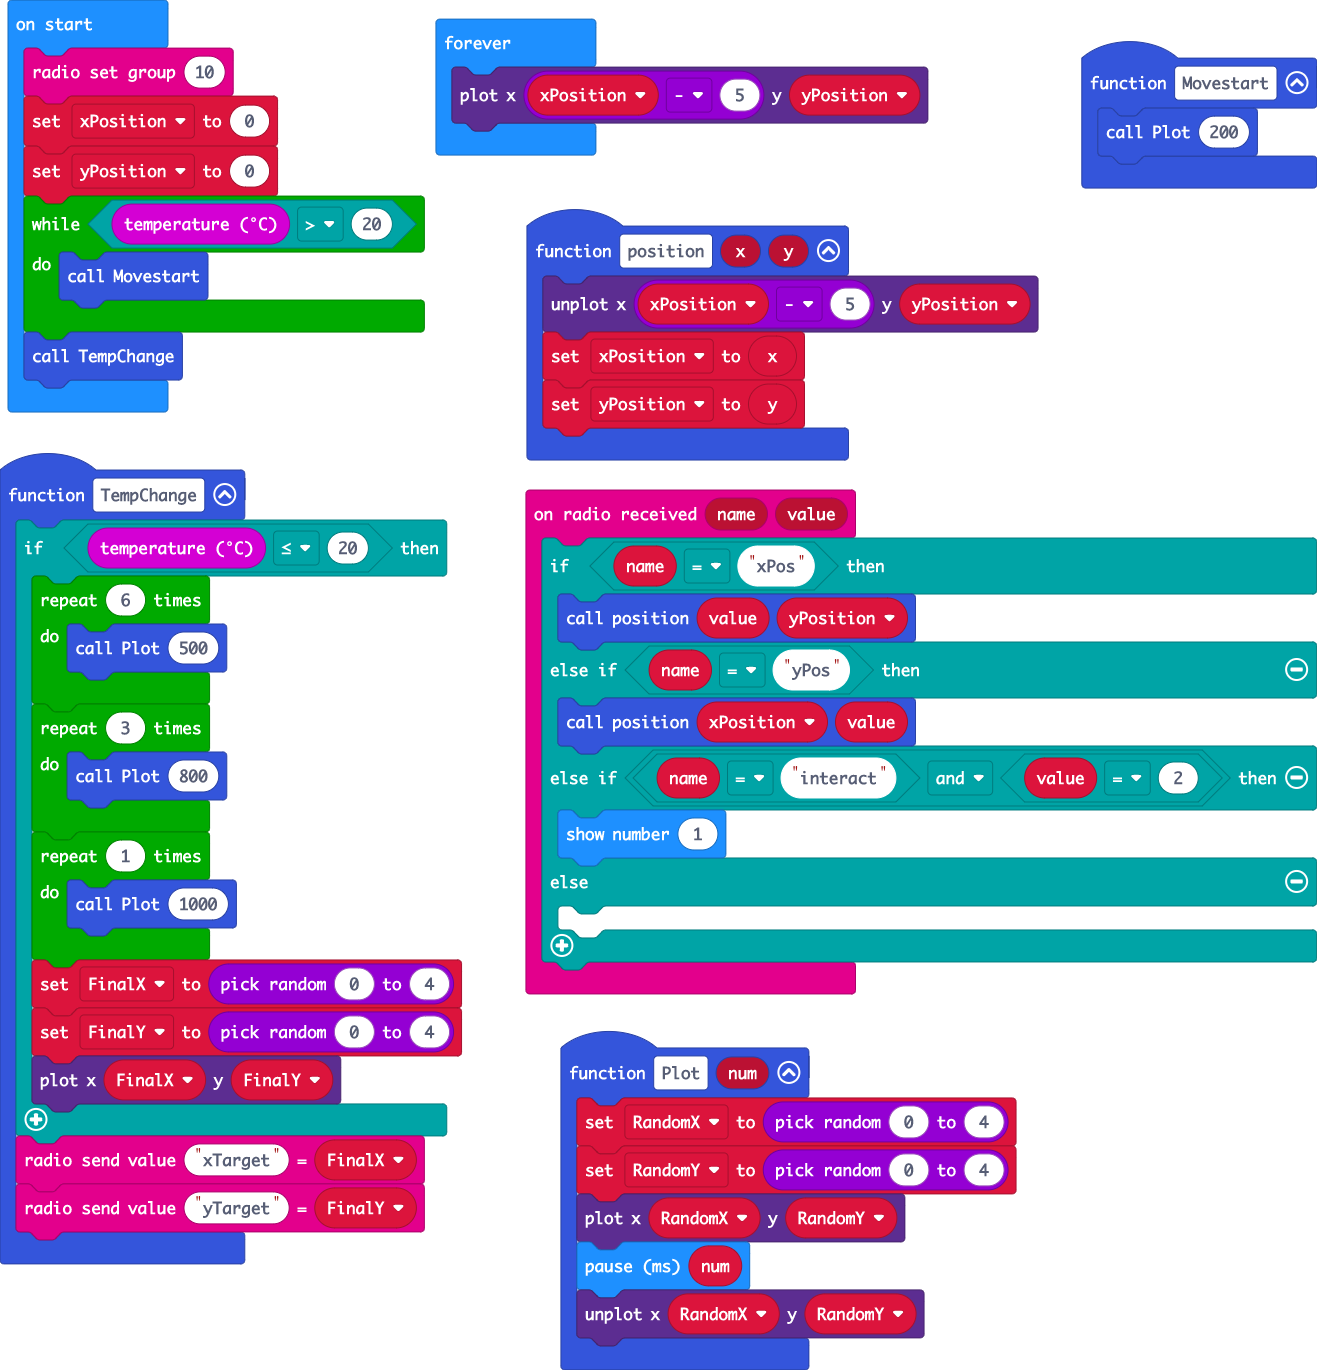
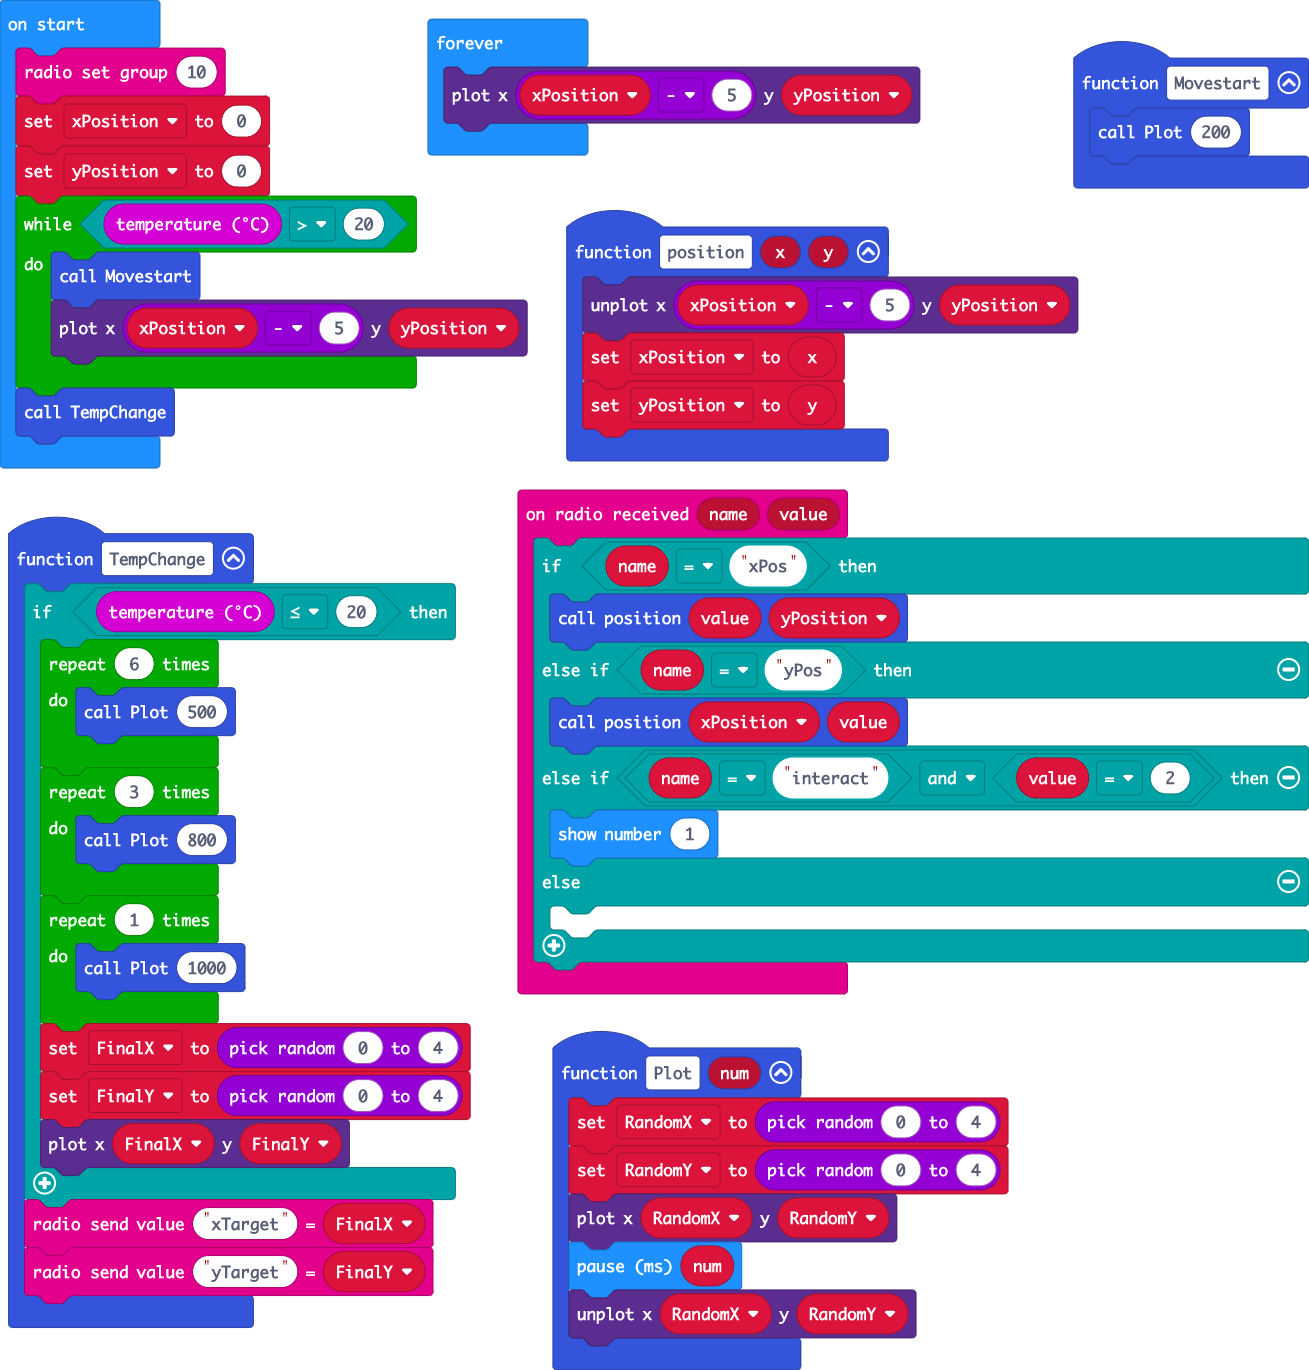
Update main.blocks, main.ts

diff --git a/main.ts b/main.ts
@@ -53,6 +53,7 @@ xPosition = 0
 yPosition = 0
 while (input.temperature() > 20) {
     Movestart()
+    led.plot(xPosition - 5, yPosition)
 }
 TempChange()
 basic.forever(function () {
